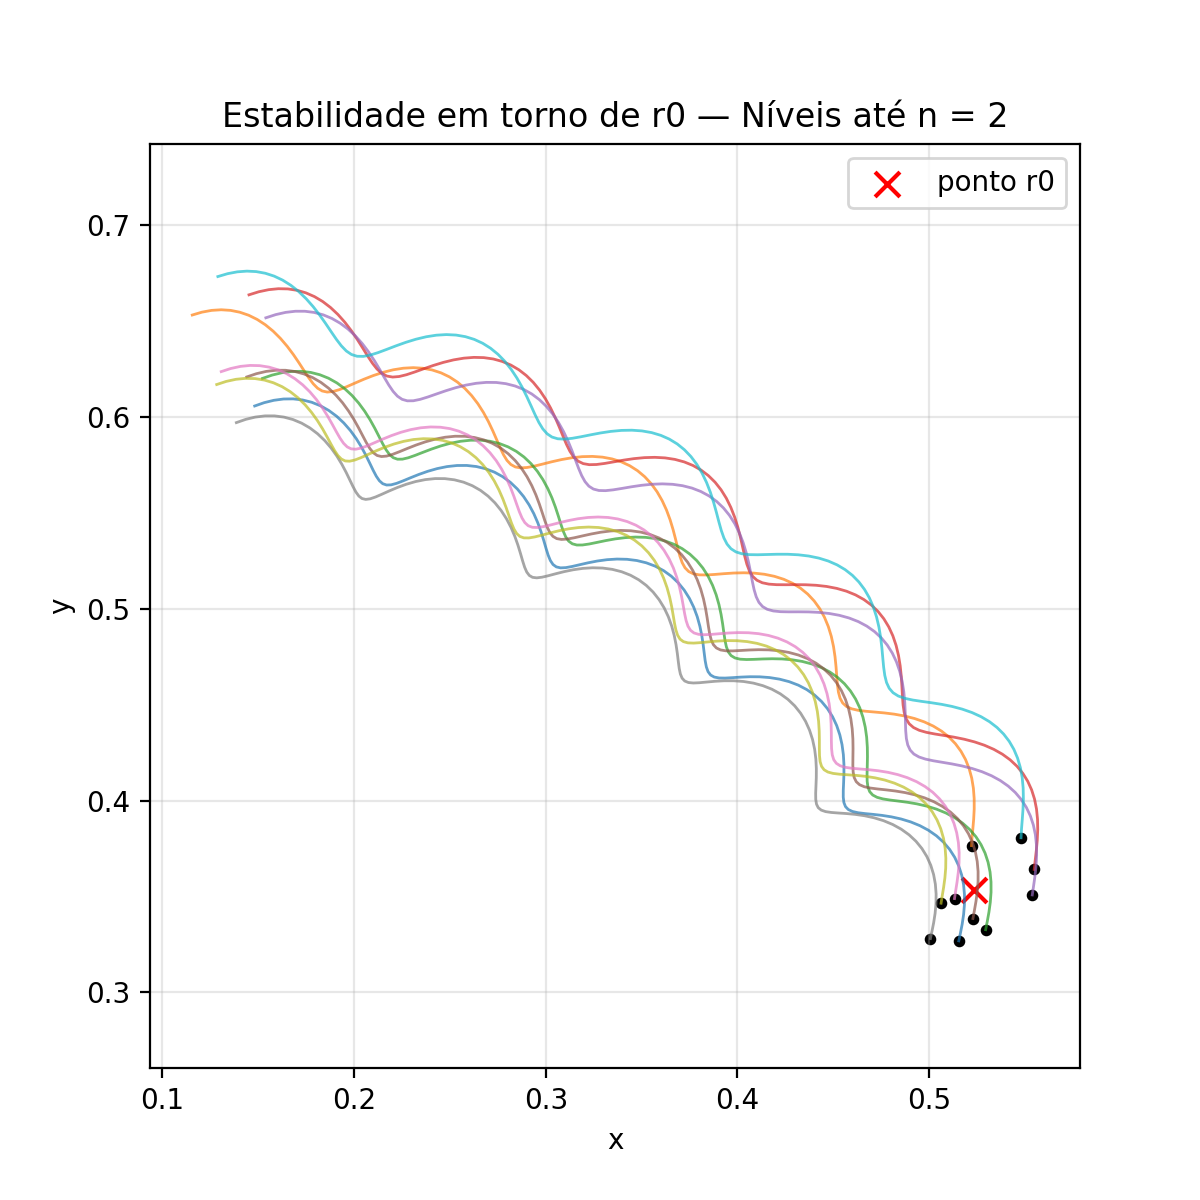
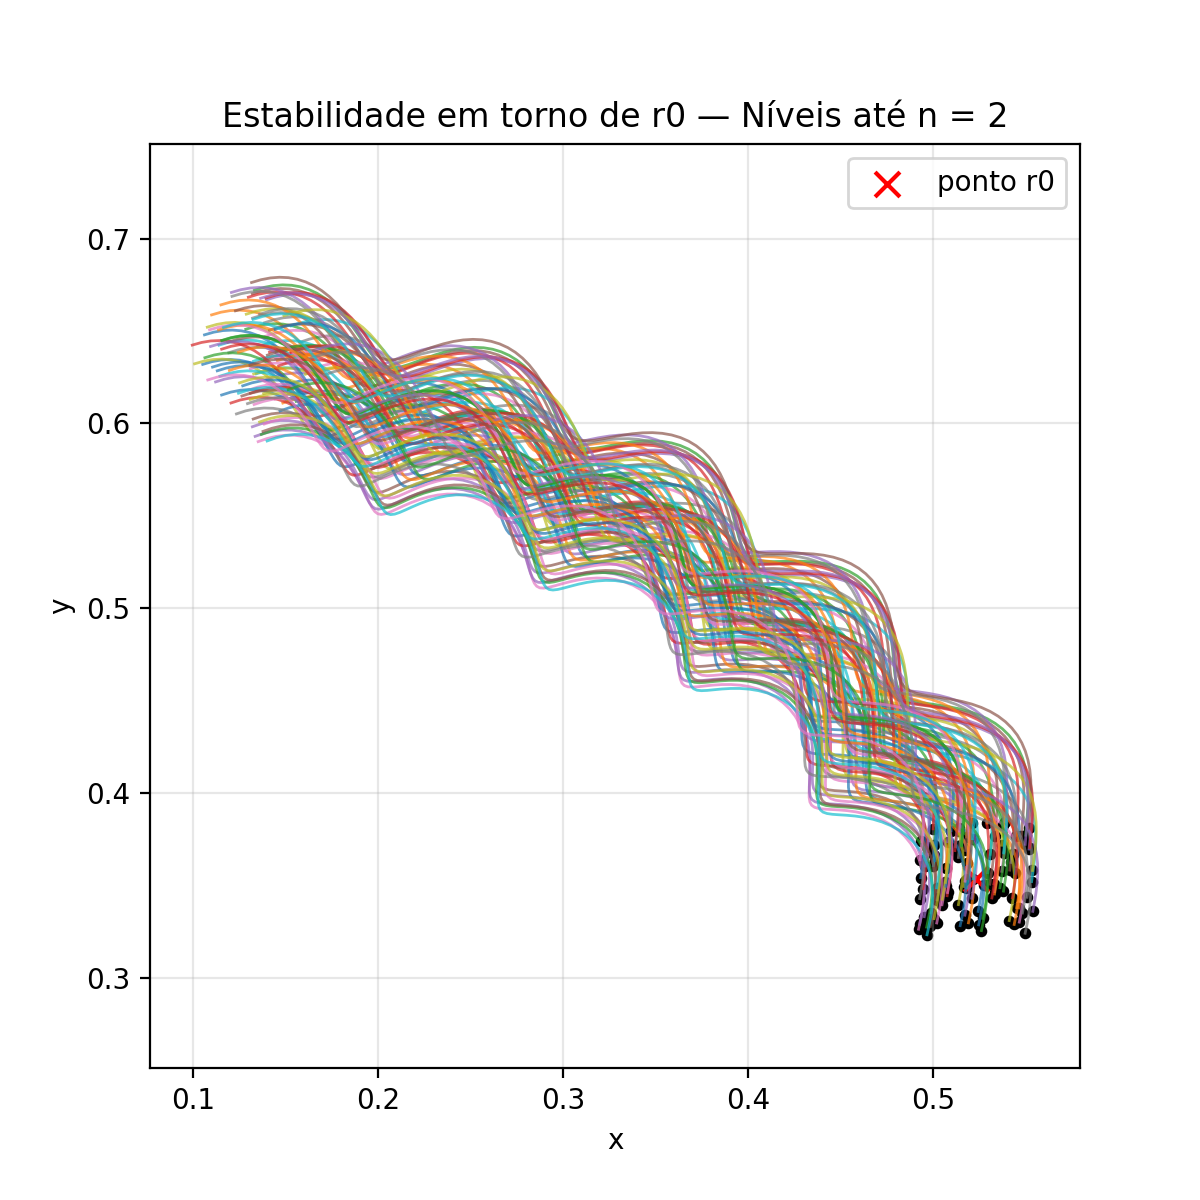
sl

diff --git a/Carlos/rotação.py b/Carlos/rotação.py
@@ -367,7 +367,7 @@ def testar_estabilidade(
         print(f"Imagem salva em: {nome_arquivo}")
 testar_estabilidade(
     nivel_max=8,
-    N_particulas=10,
+    N_particulas=100,
     r0=r0
 )
 
